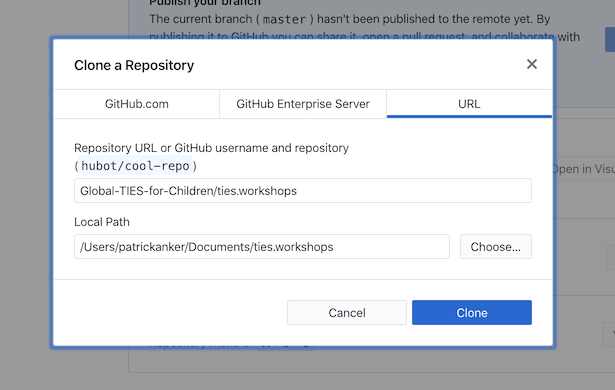
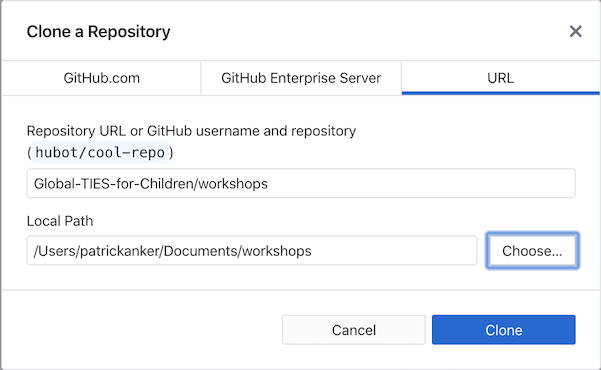
ties.workshops -> workshops

diff --git a/README.md b/README.md
@@ -41,7 +41,7 @@ we’ll cover the basics just to get you started:
 2.  Once installed, open Github Desktop, navigate to the menu, and
     select `File > Clone Repository...`.
 3.  In the dialog box that pops up, select the “URL” tab, and put
-    “Global-TIES-for-Children/ties.workshops” into the “Repository URL
-    or GitHub username and repository” field.
+    “Global-TIES-for-Children/workshops” into the “Repository URL or
+    GitHub username and repository” field.
 
 ![Clone repository box](man/figures/clone-repository.png)
